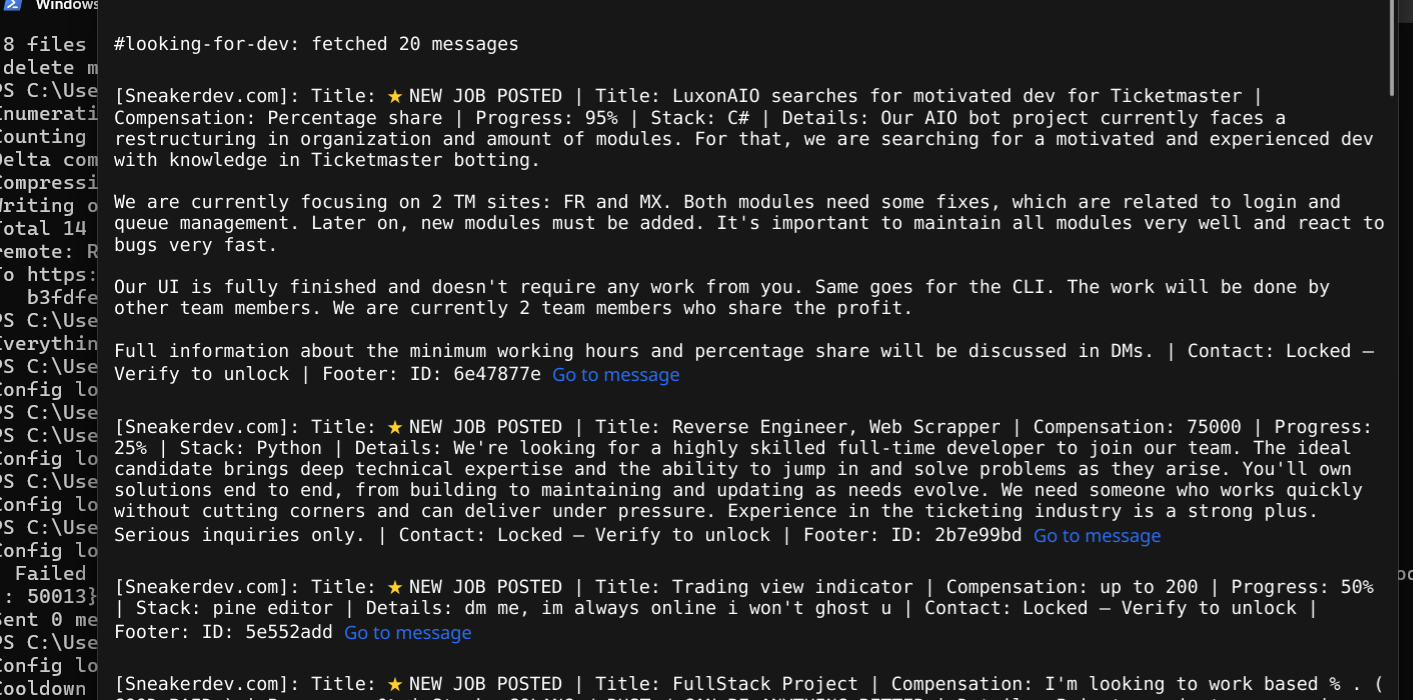
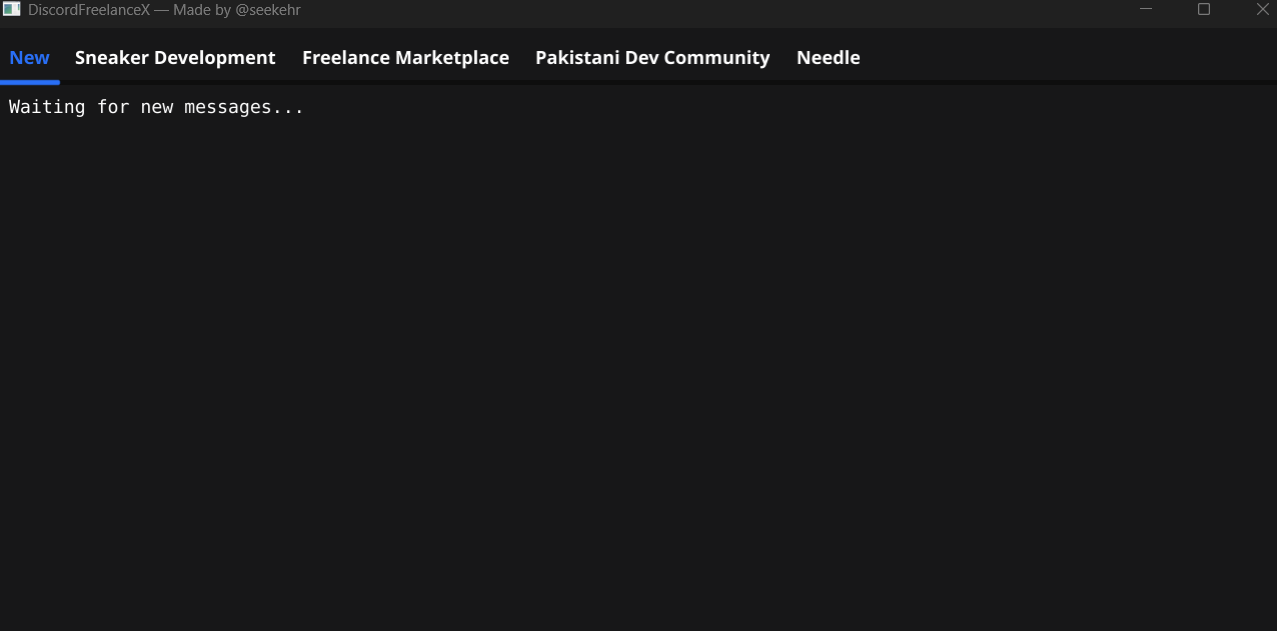
.

Changed region(s): [[0.0, 0.0301, 1.0, 1.0], [0.0, 0.0, 0.2443, 0.0301], [0.9773, 0.0, 1.0, 0.1204]]

diff --git a/internal/gui/gui.go b/internal/gui/gui.go
@@ -14,6 +14,15 @@ import (
 	"github.com/seekehr/DiscordFreelanceX/internal"
 )
 
+// TabbedDisplay holds the per-guild and "New" tab RichText widgets
+// so callers can direct output to the appropriate tab.
+type TabbedDisplay struct {
+	NewRT    *widget.RichText
+	GuildRTs map[string]*widget.RichText
+	Tabs     *container.AppTabs
+	guildTab map[string]*container.TabItem
+}
+
 // forcedDarkTheme wraps Fyne's default theme but always returns dark-variant
 // colours, with the foreground forced to pure white for readability.
 type forcedDarkTheme struct{}
@@ -44,17 +53,53 @@ func CreateApp() fyne.App {
 	return a
 }
 
-// CreateAnalysisWindow builds the main output window containing a scrollable
-// RichText widget. Returns the window and the RichText so callers can append
-// content later via AppendAnalysisText / AppendAnalysisEntries.
-func CreateAnalysisWindow(a fyne.App) (fyne.Window, *widget.RichText) {
-	w := a.NewWindow("DiscordFreelanceX — Message Analysis")
+// CreateTabbedWindow builds the main window with a tab bar: a "New" tab for
+// incoming real-time messages, plus one tab per configured guild for historical
+// analysis results.
+func CreateTabbedWindow(a fyne.App, cfg *internal.Config) (fyne.Window, *TabbedDisplay) {
+	w := a.NewWindow("DiscordFreelanceX — Made by @seekehr")
 	w.Resize(fyne.NewSize(1000, 700))
 	w.CenterOnScreen()
 
+	td := &TabbedDisplay{
+		GuildRTs: make(map[string]*widget.RichText, len(cfg.Servers)),
+		guildTab: make(map[string]*container.TabItem, len(cfg.Servers)),
+	}
+
+	newRT := newRichText("Waiting for new messages...\n")
+	td.NewRT = newRT
+	newTab := container.NewTabItem("New", container.NewVScroll(newRT))
+
+	tabs := container.NewAppTabs(newTab)
+	tabs.SetTabLocation(container.TabLocationTop)
+
+	for _, server := range cfg.Servers {
+		rt := newRichText("Connecting to Discord...\n")
+		td.GuildRTs[server.GuildID] = rt
+		tab := container.NewTabItem(server.GuildID, container.NewVScroll(rt))
+		td.guildTab[server.GuildID] = tab
+		tabs.Append(tab)
+	}
+
+	td.Tabs = tabs
+	w.SetContent(tabs)
+	return w, td
+}
+
+// RenameGuildTab updates a guild tab's title (e.g. once the guild name is resolved).
+func (td *TabbedDisplay) RenameGuildTab(guildID, name string) {
+	fyne.Do(func() {
+		if tab, ok := td.guildTab[guildID]; ok {
+			tab.Text = name
+			td.Tabs.Refresh()
+		}
+	})
+}
+
+func newRichText(initialText string) *widget.RichText {
 	rt := widget.NewRichText(
 		&widget.TextSegment{
-			Text: "Connecting to Discord and loading messages...\n",
+			Text: initialText,
 			Style: widget.RichTextStyle{
 				ColorName: theme.ColorNameForeground,
 				TextStyle: fyne.TextStyle{Monospace: true},
@@ -62,10 +107,7 @@ func CreateAnalysisWindow(a fyne.App) (fyne.Window, *widget.RichText) {
 		},
 	)
 	rt.Wrapping = fyne.TextWrapWord
-
-	scroll := container.NewVScroll(rt)
-	w.SetContent(scroll)
-	return w, rt
+	return rt
 }
 
 // AppendAnalysisText adds a plain white monospace line to the RichText widget.

diff --git a/internal/tasks/analyzelastmessages.go b/internal/tasks/analyzelastmessages.go
@@ -5,6 +5,7 @@ import (
 	"fmt"
 	"sort"
 	"strconv"
+	"strings"
 
 	"github.com/bwmarrin/discordgo"
 	"github.com/seekehr/DiscordFreelanceX/internal"
@@ -13,18 +14,13 @@ import (
 )
 
 // AnalyzeLastMessages fetches the most recent messages from every configured
-// channel and returns them as structured AnalysisEntry slices, sorted newest-first.
+// channel and returns them keyed by guild ID, sorted newest-first per channel.
 // Forum channels are handled separately by fetching their active threads.
-// Guild and channel sections are separated by visual dividers.
-func AnalyzeLastMessages(numberofmessages int, s *discordgo.Session, cfg *internal.Config) ([]internal.AnalysisEntry, error) {
-	var entries []internal.AnalysisEntry
+func AnalyzeLastMessages(numberofmessages int, s *discordgo.Session, cfg *internal.Config) (map[string][]internal.AnalysisEntry, error) {
+	result := make(map[string][]internal.AnalysisEntry, len(cfg.Servers))
 
-	for i, server := range cfg.Servers {
-		if i > 0 {
-			entries = append(entries, internal.AnalysisEntry{
-				Text: "============================",
-			})
-		}
+	for _, server := range cfg.Servers {
+		var entries []internal.AnalysisEntry
 
 		guildName := utils.GetGuildNameFromID(s, server.GuildID)
 		entries = append(entries, internal.AnalysisEntry{
@@ -47,17 +43,19 @@ func AnalyzeLastMessages(numberofmessages int, s *discordgo.Session, cfg *intern
 			}
 
 			if ch.Type == discordgo.ChannelTypeGuildForum {
-				entries = append(entries, analyzeForumChannel(s, server.GuildID, ch, numberofmessages)...)
+				entries = append(entries, analyzeForumChannel(s, server.GuildID, ch, numberofmessages, cfg.Bot.Keywords)...)
 			} else {
-				entries = append(entries, analyzeTextChannel(s, server.GuildID, channelID, numberofmessages)...)
+				entries = append(entries, analyzeTextChannel(s, server.GuildID, channelID, numberofmessages, cfg.Bot.Keywords)...)
 			}
 		}
+
+		result[server.GuildID] = entries
 	}
 
-	return entries, nil
+	return result, nil
 }
 
-func analyzeTextChannel(s *discordgo.Session, guildID, channelID string, limit int) []internal.AnalysisEntry {
+func analyzeTextChannel(s *discordgo.Session, guildID, channelID string, limit int, keywords []string) []internal.AnalysisEntry {
 	var entries []internal.AnalysisEntry
 
 	channelName := utils.GetChannelNameFromID(s, channelID)
@@ -86,6 +84,10 @@ func analyzeTextChannel(s *discordgo.Session, guildID, channelID string, limit i
 			}
 		}
 
+		if !containsKeyword(content, keywords) {
+			continue
+		}
+
 		messageURL := fmt.Sprintf("https://discord.com/channels/%s/%s/%s", guildID, channelID, msg.ID)
 		entries = append(entries, internal.AnalysisEntry{
 			Text:       fmt.Sprintf("[%s]: %s", msg.Author.Username, content),
@@ -96,7 +98,7 @@ func analyzeTextChannel(s *discordgo.Session, guildID, channelID string, limit i
 	return entries
 }
 
-func analyzeForumChannel(s *discordgo.Session, guildID string, forum *discordgo.Channel, limit int) []internal.AnalysisEntry {
+func analyzeForumChannel(s *discordgo.Session, guildID string, forum *discordgo.Channel, limit int, keywords []string) []internal.AnalysisEntry {
 	var entries []internal.AnalysisEntry
 
 	channelName := "#" + forum.Name
@@ -113,6 +115,9 @@ func analyzeForumChannel(s *discordgo.Session, guildID string, forum *discordgo.
 
 	for _, thread := range forumThreads {
 		content := parsers.ParseForumPost(s, thread)
+		if !containsKeyword(content, keywords) {
+			continue
+		}
 		threadURL := fmt.Sprintf("https://discord.com/channels/%s/%s", guildID, thread.ID)
 		entries = append(entries, internal.AnalysisEntry{
 			Text:       content,
@@ -123,9 +128,25 @@ func analyzeForumChannel(s *discordgo.Session, guildID string, forum *discordgo.
 	return entries
 }
 
+func containsKeyword(text string, keywords []string) bool {
+	if len(keywords) == 0 {
+		return true
+	}
+	lower := strings.ToLower(text)
+	for _, kw := range keywords {
+		if strings.Contains(lower, strings.ToLower(kw)) {
+			return true
+		}
+	}
+	return false
+}
+
 // fetchForumThreads uses the user-facing thread search endpoint
 // (works with both user and bot tokens, unlike GuildThreadsActive).
 func fetchForumThreads(s *discordgo.Session, forumChannelID string, limit int) ([]*discordgo.Channel, error) {
+	if limit > 25 {
+		limit = 25
+	}
 	endpoint := discordgo.EndpointChannel(forumChannelID) +
 		"/threads/search?sort_by=last_message_time&sort_order=desc&limit=" +
 		strconv.Itoa(limit)

diff --git a/main.go b/main.go
@@ -6,13 +6,13 @@ import (
 	"os"
 
 	"fyne.io/fyne/v2"
-	"fyne.io/fyne/v2/widget"
 	"github.com/bwmarrin/discordgo"
 	"github.com/joho/godotenv"
 
 	"github.com/seekehr/DiscordFreelanceX/internal"
 	"github.com/seekehr/DiscordFreelanceX/internal/gui"
 	"github.com/seekehr/DiscordFreelanceX/internal/tasks"
+	"github.com/seekehr/DiscordFreelanceX/internal/utils"
 )
 
 func main() {
@@ -25,9 +25,9 @@ func main() {
 	token := initaliseEnv()
 
 	guiApp := gui.CreateApp()
-	window, rt := gui.CreateAnalysisWindow(guiApp)
+	window, td := gui.CreateTabbedWindow(guiApp, cfg)
 
-	go initialiseDiscord(cfg, token, guiApp, rt)
+	go initialiseDiscord(cfg, token, guiApp, td)
 
 	window.ShowAndRun()
 }
@@ -48,11 +48,11 @@ func initaliseEnv() string {
 }
 
 // initialiseDiscord opens a Discord session in the background, and on ready
-// fetches messages and pushes the results into the GUI's RichText widget.
-func initialiseDiscord(cfg *internal.Config, token string, a fyne.App, rt *widget.RichText) {
+// fetches messages per guild tab and sets up real-time handlers on the "New" tab.
+func initialiseDiscord(cfg *internal.Config, token string, a fyne.App, td *gui.TabbedDisplay) {
 	discord, err := discordgo.New(token)
 	if err != nil {
-		gui.AppendAnalysisText(rt, fmt.Sprintf("Failed to create Discord session: %v", err))
+		gui.AppendAnalysisText(td.NewRT, fmt.Sprintf("Failed to create Discord session: %v", err))
 		return
 	}
 
@@ -61,19 +61,29 @@ func initialiseDiscord(cfg *internal.Config, token string, a fyne.App, rt *widge
 		discordgo.IntentMessageContent
 
 	discord.AddHandler(func(s *discordgo.Session, r *discordgo.Ready) {
-		gui.AppendAnalysisText(rt, "Bot is running! Fetching messages...")
-		entries, err := tasks.AnalyzeLastMessages(cfg.Bot.AnalyzeLastXMessages, s, cfg)
+		for _, server := range cfg.Servers {
+			name := utils.GetGuildNameFromID(s, server.GuildID)
+			td.RenameGuildTab(server.GuildID, name)
+		}
+
+		perGuild, err := tasks.AnalyzeLastMessages(cfg.Bot.AnalyzeLastXMessages, s, cfg)
 		if err != nil {
-			gui.AppendAnalysisText(rt, fmt.Sprintf("Failed to analyze messages: %v", err))
+			gui.AppendAnalysisText(td.NewRT, fmt.Sprintf("Failed to analyze messages: %v", err))
 			return
 		}
-		gui.AppendAnalysisEntries(rt, entries)
-		gui.AppendAnalysisText(rt, "====================NEW MESSAGES====================")
-		tasks.AcceptNewMessages(s, cfg, a, rt)
+
+		for guildID, entries := range perGuild {
+			if rt, ok := td.GuildRTs[guildID]; ok {
+				gui.AppendAnalysisEntries(rt, entries)
+			}
+		}
+
+		gui.AppendAnalysisText(td.NewRT, "Listening for new messages...")
+		tasks.AcceptNewMessages(s, cfg, a, td.NewRT)
 	})
 
 	if err := discord.Open(); err != nil {
-		gui.AppendAnalysisText(rt, fmt.Sprintf("Failed to open Discord session: %v", err))
+		gui.AppendAnalysisText(td.NewRT, fmt.Sprintf("Failed to open Discord session: %v", err))
 	}
 	tasks.SendMessages(discord, cfg)
 }

diff --git a/internal/config.go b/internal/config.go
@@ -16,9 +16,10 @@ type Config struct {
 // BotConfig holds bot-specific settings such as the auto-reply message
 // and the number of messages to fetch per channel.
 type BotConfig struct {
-	ForumTitle           string `yaml:"forum-title"`
-	Message              string `yaml:"message"`
-	AnalyzeLastXMessages int    `yaml:"analyze-last-x-messages"`
+	ForumTitle           string   `yaml:"forum-title"`
+	Message              string   `yaml:"message"`
+	Keywords             []string `yaml:"keywords"`
+	AnalyzeLastXMessages int      `yaml:"analyze-last-x-messages"`
 }
 
 // ServerConfig identifies a single Discord guild and the channels to monitor.

diff --git a/internal/tasks/acceptnewmessages.go b/internal/tasks/acceptnewmessages.go
@@ -35,6 +35,10 @@ func AcceptNewMessages(s *discordgo.Session, cfg *internal.Config, a fyne.App, r
 			}
 		}
 
+		if !containsKeyword(content, cfg.Bot.Keywords) {
+			return
+		}
+
 		channelName := utils.GetChannelNameFromID(s, m.ChannelID)
 		messageURL := fmt.Sprintf("https://discord.com/channels/%s/%s/%s", guildID, m.ChannelID, m.ID)
 
@@ -57,6 +61,9 @@ func AcceptNewMessages(s *discordgo.Session, cfg *internal.Config, a fyne.App, r
 		}
 
 		content := parsers.ParseForumPost(s, tc.Channel)
+		if !containsKeyword(content, cfg.Bot.Keywords) {
+			return
+		}
 		threadURL := fmt.Sprintf("https://discord.com/channels/%s/%s", guildID, tc.ID)
 		forumName := utils.GetChannelNameFromID(s, tc.ParentID)
 

diff --git a/README.md b/README.md
@@ -6,6 +6,8 @@ A lightweight Discord tool built in Go that helps freelancers stay on top of job
 
 ## Features
 
+- **Tab Support** -- Tabs for each server for quick browsing.
+- **Keyword Support** -- Use keywords to only select relevant job offerings ;D.
 - **Multi-server message scanning** -- Fetches and displays the most recent messages from any number of guilds and channels, sorted newest-first.
 - **Accept new messages and immediately links to them** -- Displays any new messages instantly with a notification so you are never late to applying for a job.
 - **Forum channel support** -- Many such tools do not support forums, but this bot does!